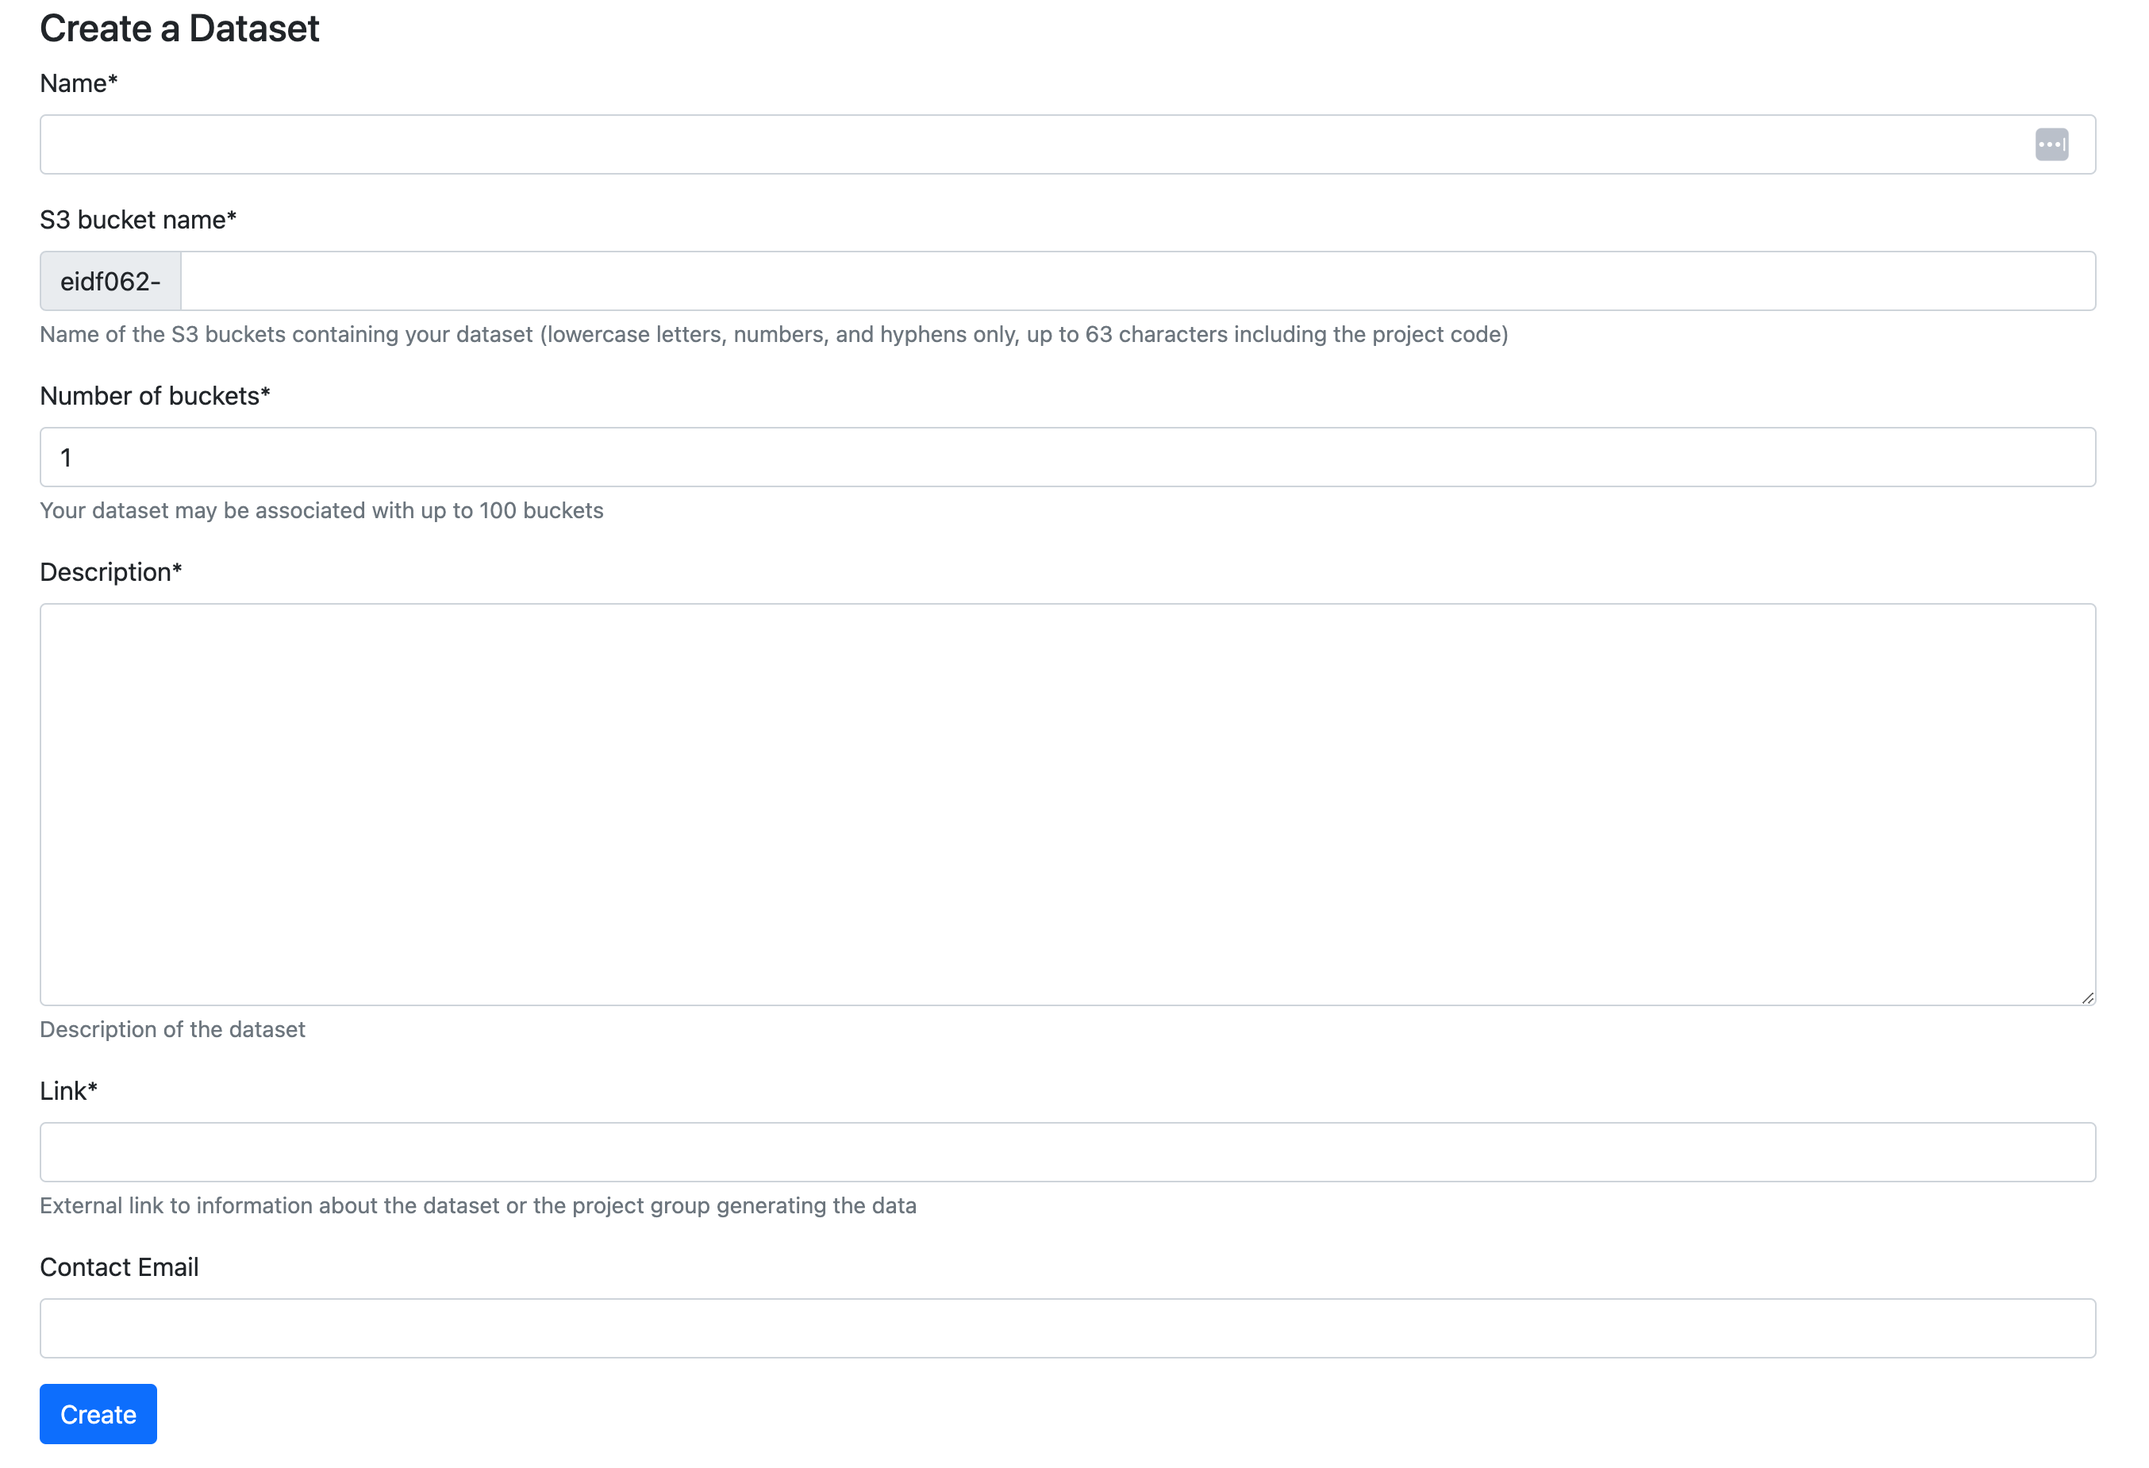
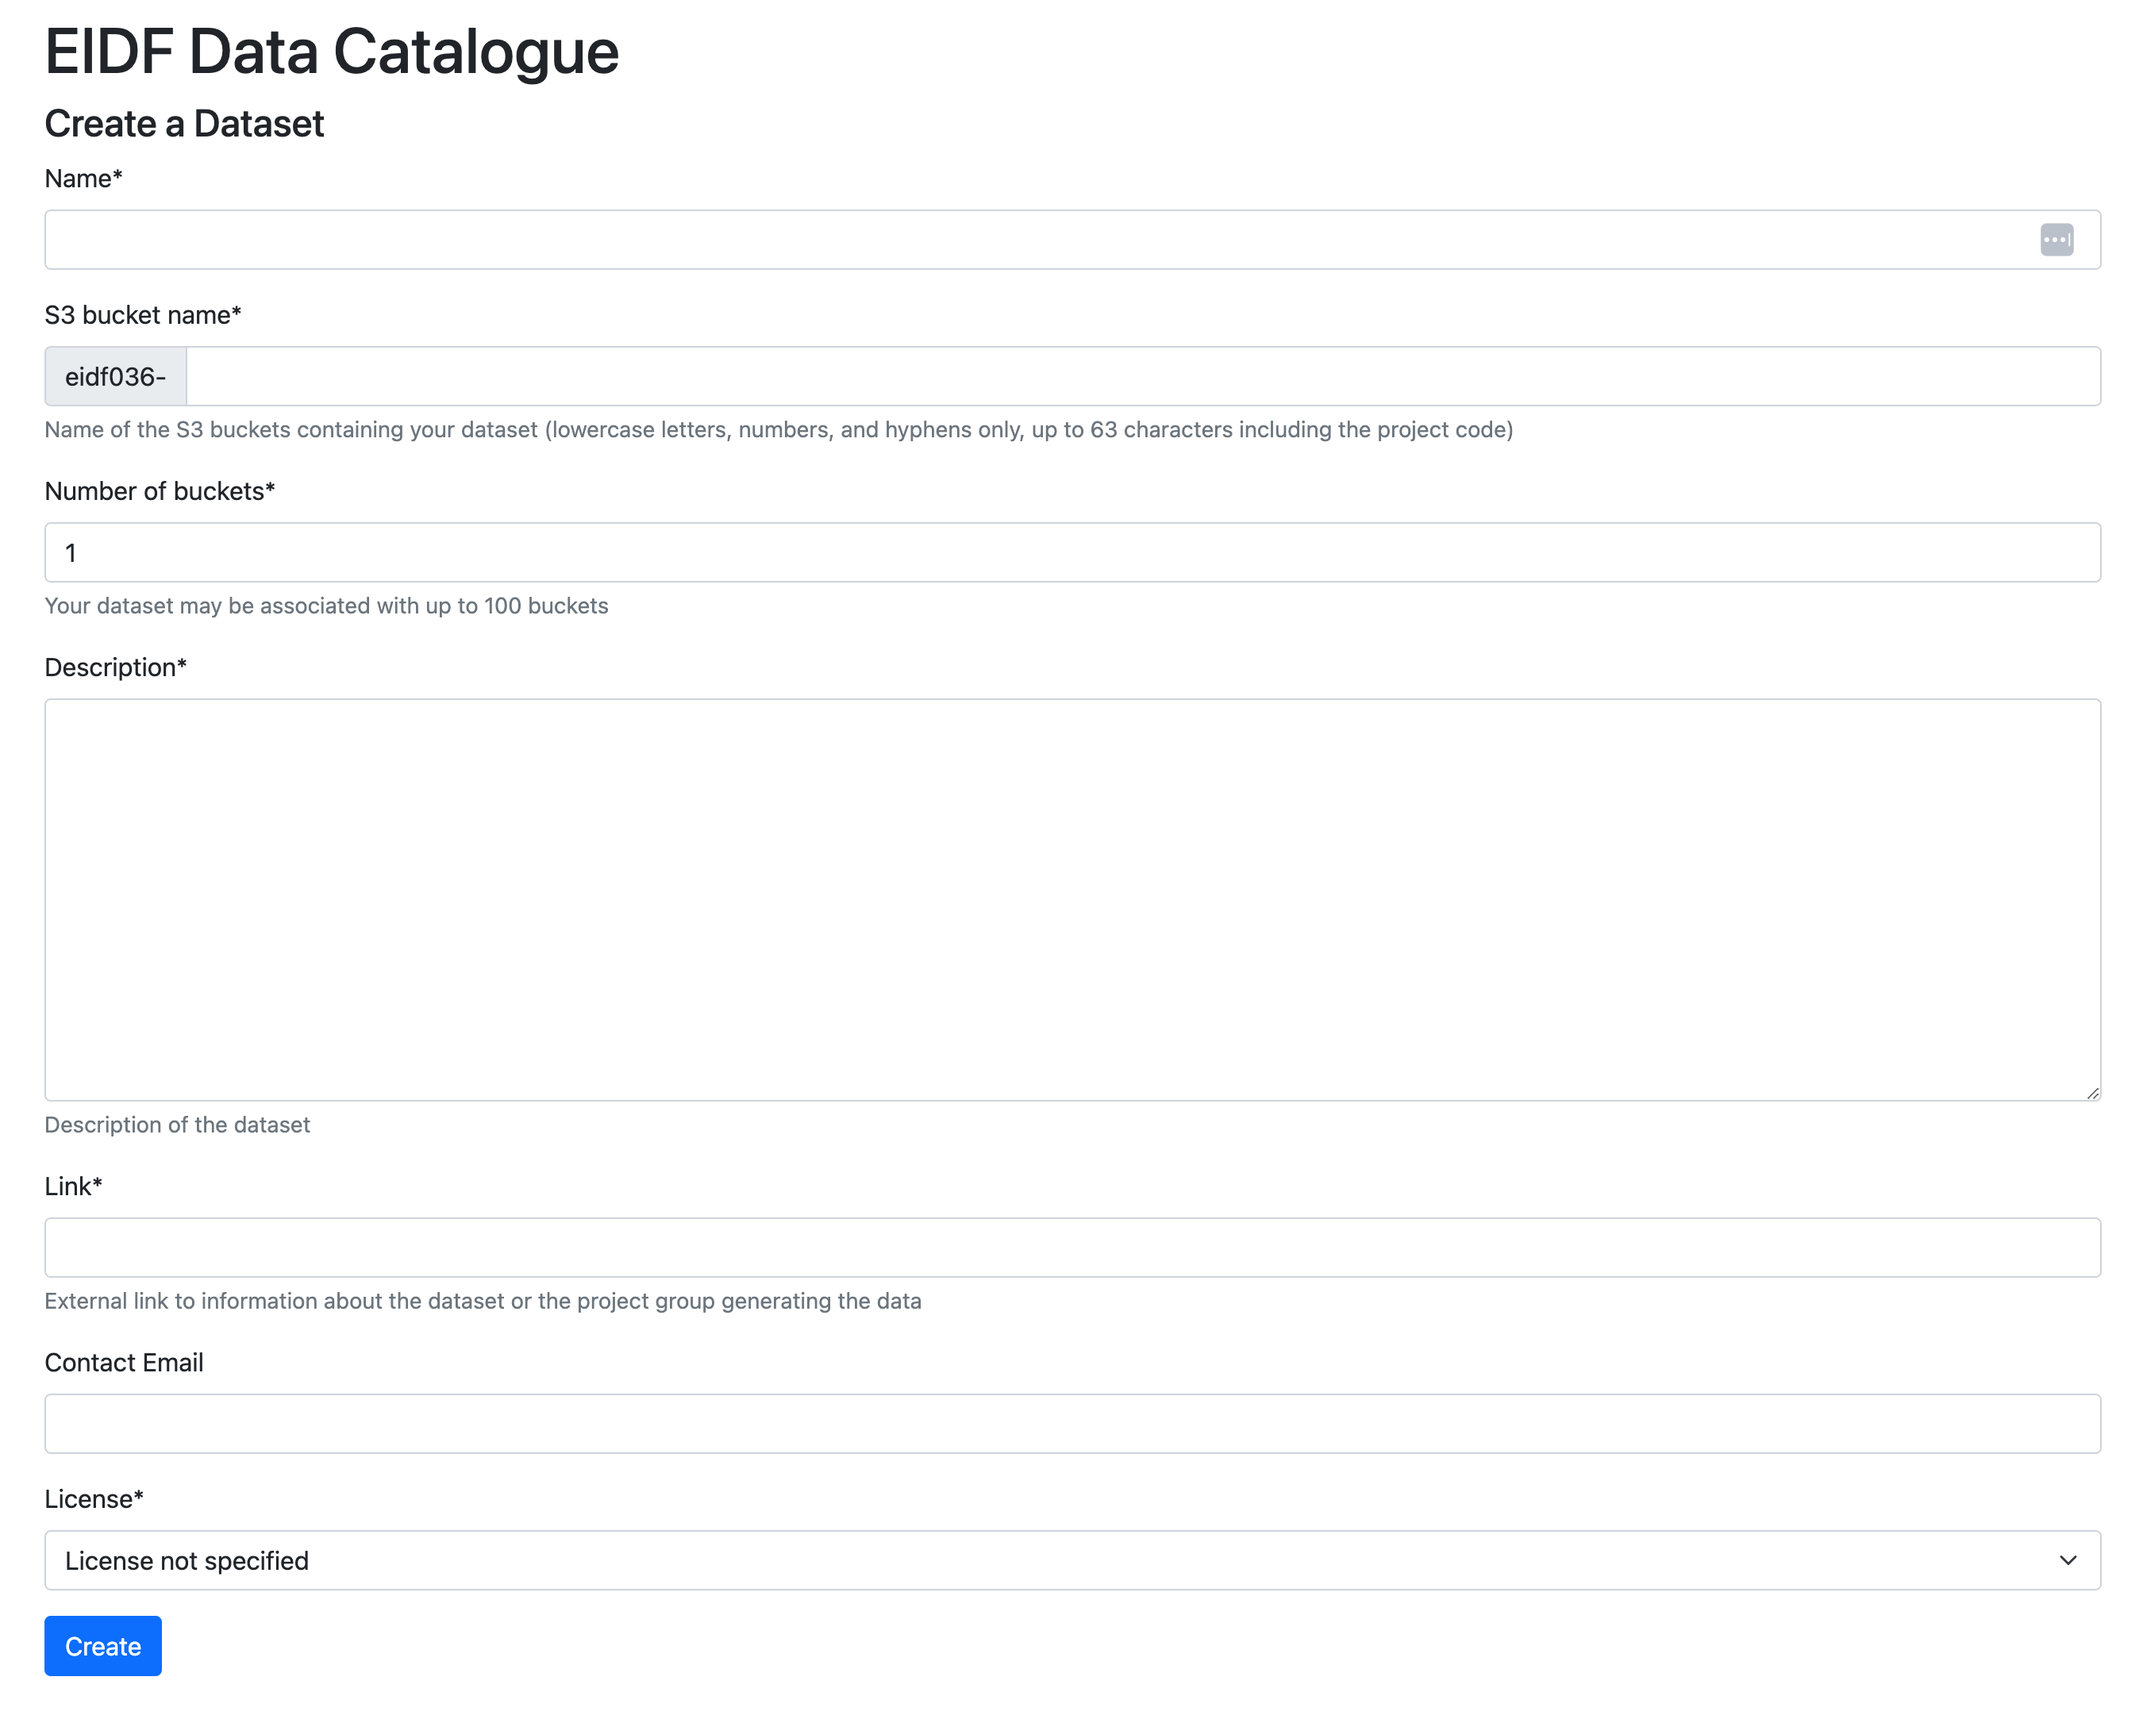
Can choose licence when creating dataset in portal.

diff --git a/docs/dataingest/data_ingest_crib.md b/docs/dataingest/data_ingest_crib.md
@@ -1,6 +1,6 @@
 # Data ingest crib sheet
 
-**Version 0.4.13**
+**Version 0.4.14**
 
 This document is changing fairly quickly so please keep an eye on the version number to see if it has changed since you last looked at it.
 
@@ -87,10 +87,11 @@ Select the project which you want to use to ingest data. The list of `Ingest Dat
   * **Description**: a description of your dataset.
   * **Link**: a link describing your group/contact information.
   * **Contact email**: a contact email to answer queries about your data set (this is optional).
+  * **License**: the license under which you will distribute your data.
   
   As in the form example below.
 
-![The form to create a dataset](imgs/CreateDataset.png)
+![](imgs/CreateDataset.png)
 
 Once you are happy with the content press on the `Create` button. This will be used to create your Dataset within your organisation (we are mapping EIDF projects to CKAN organisations) on the EIDF Data Catalogue and a data buckets in S3.
 
